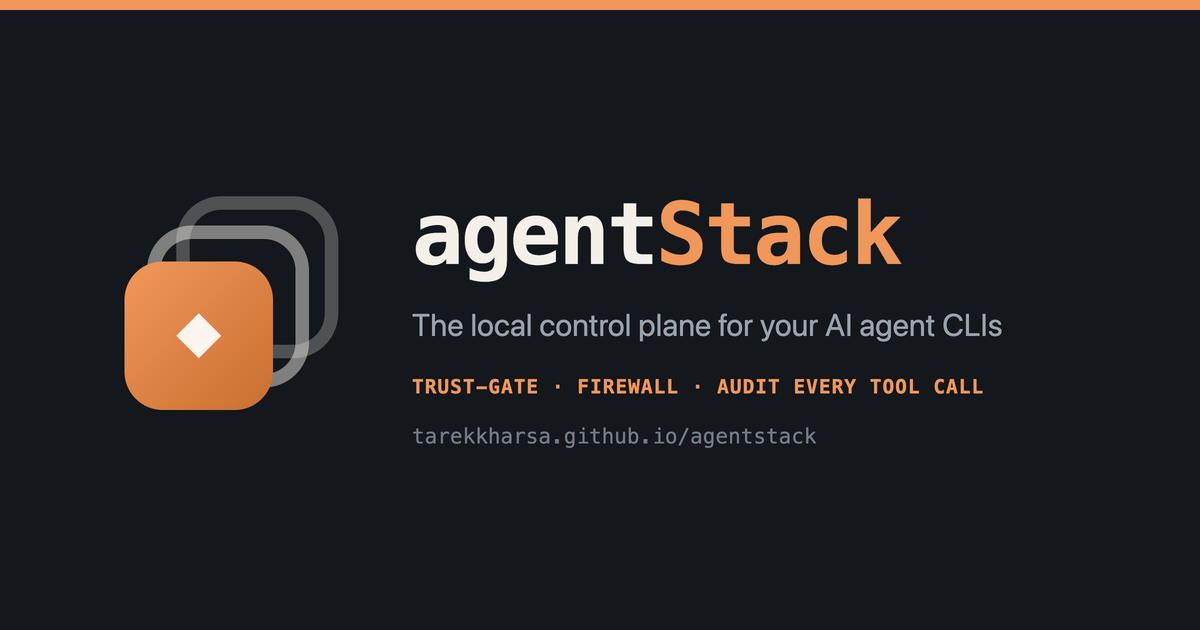
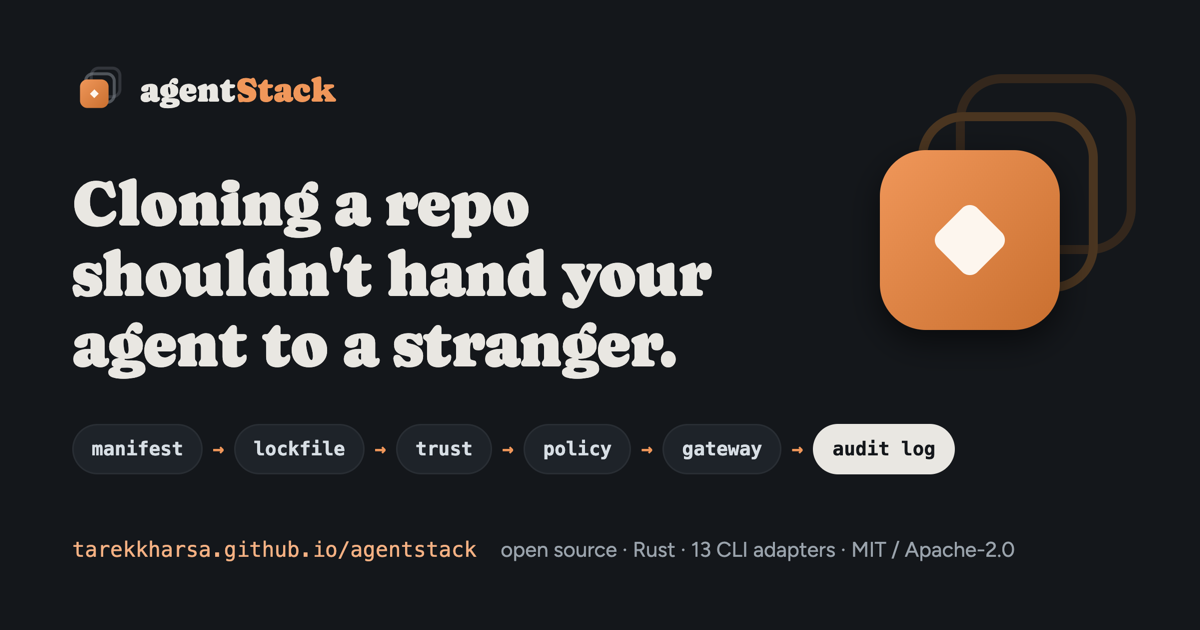
docs: redraw the OG card in the design system
New 1200×630 social card mirroring the landing hero: Caprasimo headline,
slate dark palette, layered logo motif, pipeline chips. Source is now
docs/theme/og-card.html (rendered via Chrome, see its header comment);
the old hand-drawn og-card.svg is retired.

diff --git a/docs/theme/og-card.html b/docs/theme/og-card.html
@@ -1,0 +1,61 @@
+<!doctype html>
+<!-- Source of docs/og-card.png (1200×630 social card).
+     Re-render: serve docs/, open this page in Chrome at a 1200×630 viewport,
+     screenshot, downscale to 1200×630 if captured at 2x:
+       sips -z 630 1200 docs/og-card.png -->
+<html lang="en" data-palette="slate" data-theme="dark">
+<head>
+<meta charset="utf-8">
+<link rel="stylesheet" href="organic.css">
+<style>
+:root{--paper:#14171B;--surface:#1A1E23;--ink:#E9E7E2;--body:#C3C9CF;--muted:#9AA3AC;
+--accent:#F0975A;--accent-deep:#F5B183;--line:#292E34;--code-bg:#1E2329;--chip-ink:#D7DEE4}
+html,body{margin:0}
+body{width:1200px;height:630px;overflow:hidden;background:var(--paper);color:var(--ink);
+font-family:var(--font-body,Figtree,sans-serif);position:relative}
+.wrap{position:relative;width:100%;height:100%;padding:64px 72px;box-sizing:border-box;
+display:flex;flex-direction:column}
+.brand{display:flex;align-items:center;gap:16px}
+.brand img{width:52px;height:52px}
+.brand span{font-family:var(--font-heading,Caprasimo,serif);font-size:34px}
+.brand .a{color:var(--accent)}
+h1{font-family:var(--font-heading,Caprasimo,serif);font-weight:400;font-size:64px;
+line-height:1.1;margin:52px 0 0;max-width:760px}
+.pipe{display:flex;gap:10px;align-items:center;margin-top:44px;
+font-family:ui-monospace,Menlo,Consolas,monospace;font-size:19px;font-weight:700}
+.pipe span.chip{background:var(--code-bg);border:1.5px solid var(--line);color:var(--chip-ink);
+padding:9px 18px;border-radius:999px}
+.pipe span.chip.last{background:var(--ink);color:var(--paper);border-color:var(--ink)}
+.pipe span.arr{color:var(--accent)}
+.foot{margin-top:auto;display:flex;align-items:baseline;gap:24px;
+font-size:21px;color:var(--muted)}
+.foot .url{font-family:ui-monospace,Menlo,Consolas,monospace;color:var(--accent-deep)}
+.deco{position:absolute;top:74px;right:64px;width:300px;height:300px}
+.deco .r{position:absolute;width:180px;height:180px;border-radius:46px}
+.deco .r1{top:0;right:0;border:9px solid #3A2A1C;opacity:.85}
+.deco .r2{top:38px;right:38px;border:9px solid #4A3520}
+.deco .r3{top:76px;right:76px;background:linear-gradient(135deg,#F0975A 0%,#C96F2F 100%);
+box-shadow:0 12px 32px rgba(0,0,0,.55);display:flex;align-items:center;justify-content:center}
+.deco .d{width:56px;height:56px;background:#FDF6EE;border-radius:11px;transform:rotate(45deg)}
+</style>
+</head>
+<body>
+<div class="wrap">
+  <div class="brand"><img src="logo-mark.svg" alt=""><span>agent<span class="a">Stack</span></span></div>
+  <h1>Cloning a repo shouldn't hand your agent to a stranger.</h1>
+  <div class="pipe">
+    <span class="chip">manifest</span><span class="arr">→</span>
+    <span class="chip">lockfile</span><span class="arr">→</span>
+    <span class="chip">trust</span><span class="arr">→</span>
+    <span class="chip">policy</span><span class="arr">→</span>
+    <span class="chip">gateway</span><span class="arr">→</span>
+    <span class="chip last">audit log</span>
+  </div>
+  <div class="foot">
+    <span class="url">tarekkharsa.github.io/agentstack</span>
+    <span>open source · Rust · 13 CLI adapters · MIT / Apache-2.0</span>
+  </div>
+  <div class="deco"><div class="r r1"></div><div class="r r2"></div><div class="r r3"><div class="d"></div></div></div>
+</div>
+</body>
+</html>